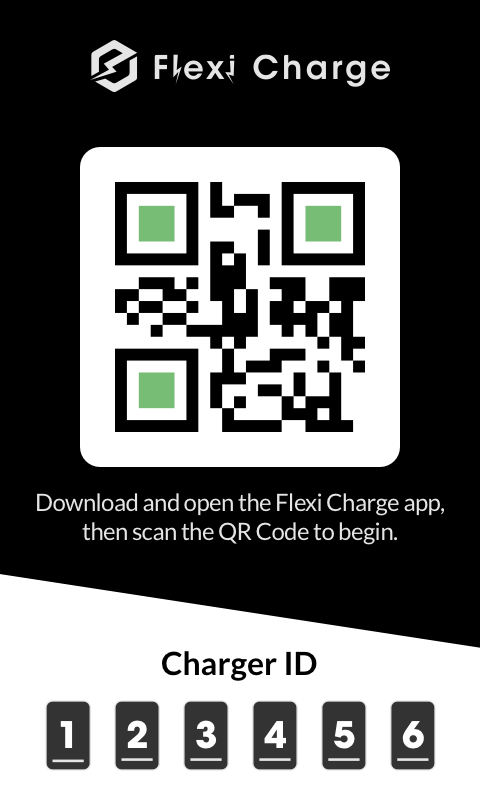
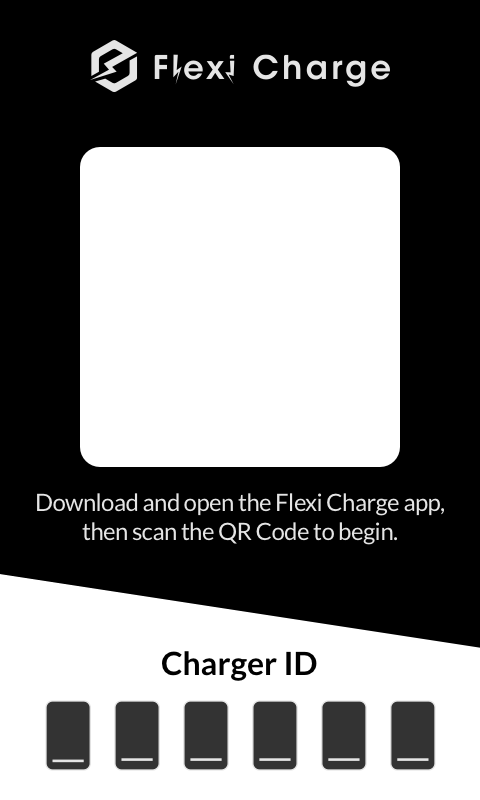
OCPP and GUI Merged togheter with working ID-number

diff --git a/ChargeStation/BACKUPstateMachine.py b/ChargeStation/BACKUPstateMachine.py
@@ -87,6 +87,11 @@ class ChargePoint(cp):
         elif response.id_tag_info["status"] == AuthorizationStatus.blocked:
             print("Blocked. No charge started")
 
+
+
+
+
+
 #Two functions that are not finished or tested
     #NOT TESTED.
     async def send_data_transfer_req(self, vendor_id:str, message_id:str, data:str):
@@ -154,13 +159,15 @@ class ChargePoint(cp):
             print("Charger {self.id}: Stopping transaction")
 
 state = StateHandler()
+lastState = StateHandler()
+chargerId = 123456
 
 def GUI():
     sg.theme('Black')
 
     layout1 =    [
                     [
-                        sg.Text(" ")
+                        sg.Text("hrjhrjrhrhjhj")
                     ],
                     [
                         sg.Image(data=displayStatus.startingUp(), key='IMAGE', size=(480, 800))
@@ -178,50 +185,27 @@ def GUI():
 async def statemachine(ocpp_client):
     window = GUI()
     global state
-
-    response = await ocpp_client.send_boot_notification()
-    chargerID = response.charger_id
-
-    firstNumberOfChargerID = int(chargerID % 10) 
-    secondNumberOfChargerID = int(chargerID/10) % 10 
-    thirdNumberOfChargerID = int(chargerID/100) % 10  
-    fouthNumberOfChargerID = int(chargerID/1000) % 10 
-    fifthNumberOfChargerID = int(chargerID/10000) % 10 
-    sixthNumberOfChargerID = int(chargerID/100000) % 10
-
-    layout = [
-                [   
-                     sg.Text(firstNumberOfChargerID, font=('Tw Cen MT Condensed Extra Bold', 30), key='ID0', justification='center', pad=(15,0)),
-                     sg.Text(secondNumberOfChargerID, font=('Tw Cen MT Condensed Extra Bold', 30), key='ID1', justification='center', pad=(25,0)),
-                     sg.Text(thirdNumberOfChargerID, font=('Tw Cen MT Condensed Extra Bold', 30), key='ID2', justification='center', pad=(20,0)),
-                     sg.Text(fouthNumberOfChargerID, font=('Tw Cen MT Condensed Extra Bold', 30), key='ID3', justification='center', pad=(25,0)),
-                     sg.Text(fifthNumberOfChargerID, font=('Tw Cen MT Condensed Extra Bold', 30), key='ID4', justification='center', pad=(20,0)),
-                     sg.Text(sixthNumberOfChargerID, font=('Tw Cen MT Condensed Extra Bold', 30), key='ID5', justification='center', pad=(25,0))
-                ]
-            ]
-
-    top_window = sg.Window(title="FlexiChargeTopWindow", layout=layout, location=(18,720), keep_on_top=True, grab_anywhere=False, transparent_color=sg.theme_background_color(), no_titlebar=True).finalize()
-    top_window.TKroot["cursor"] = "none"
-    top_window.hide()
+    global lastState
 
     while True:
 
         if state.get_state() == States.S_STARTUP:
-            time.sleep(5)
+            time.sleep(2)
+
             state.set_state(States.S_NOTAVAILABLE)
             window['IMAGE'].update(data=displayStatus.chargeNotAvailable())
             window.refresh()
-            time.sleep(5)
+            time.sleep(2)
 
+            response = await ocpp_client.send_boot_notification()
             if(response.status ==  RegistrationStatus.accepted):
                 state.set_state(States.S_AVAILABLE)
                 window['IMAGE'].update(data=displayStatus.qrCode())
-                top_window.UnHide()
+                sg.Text(str(response.charger_id))
                 window.refresh()
             else:
                 state.set_state(States.S_NOTAVAILABLE)
                 window['IMAGE'].update(data=displayStatus.chargeNotAvailable())
-                top_window.hide()
                 window.refresh()
 
             time.sleep(2)
